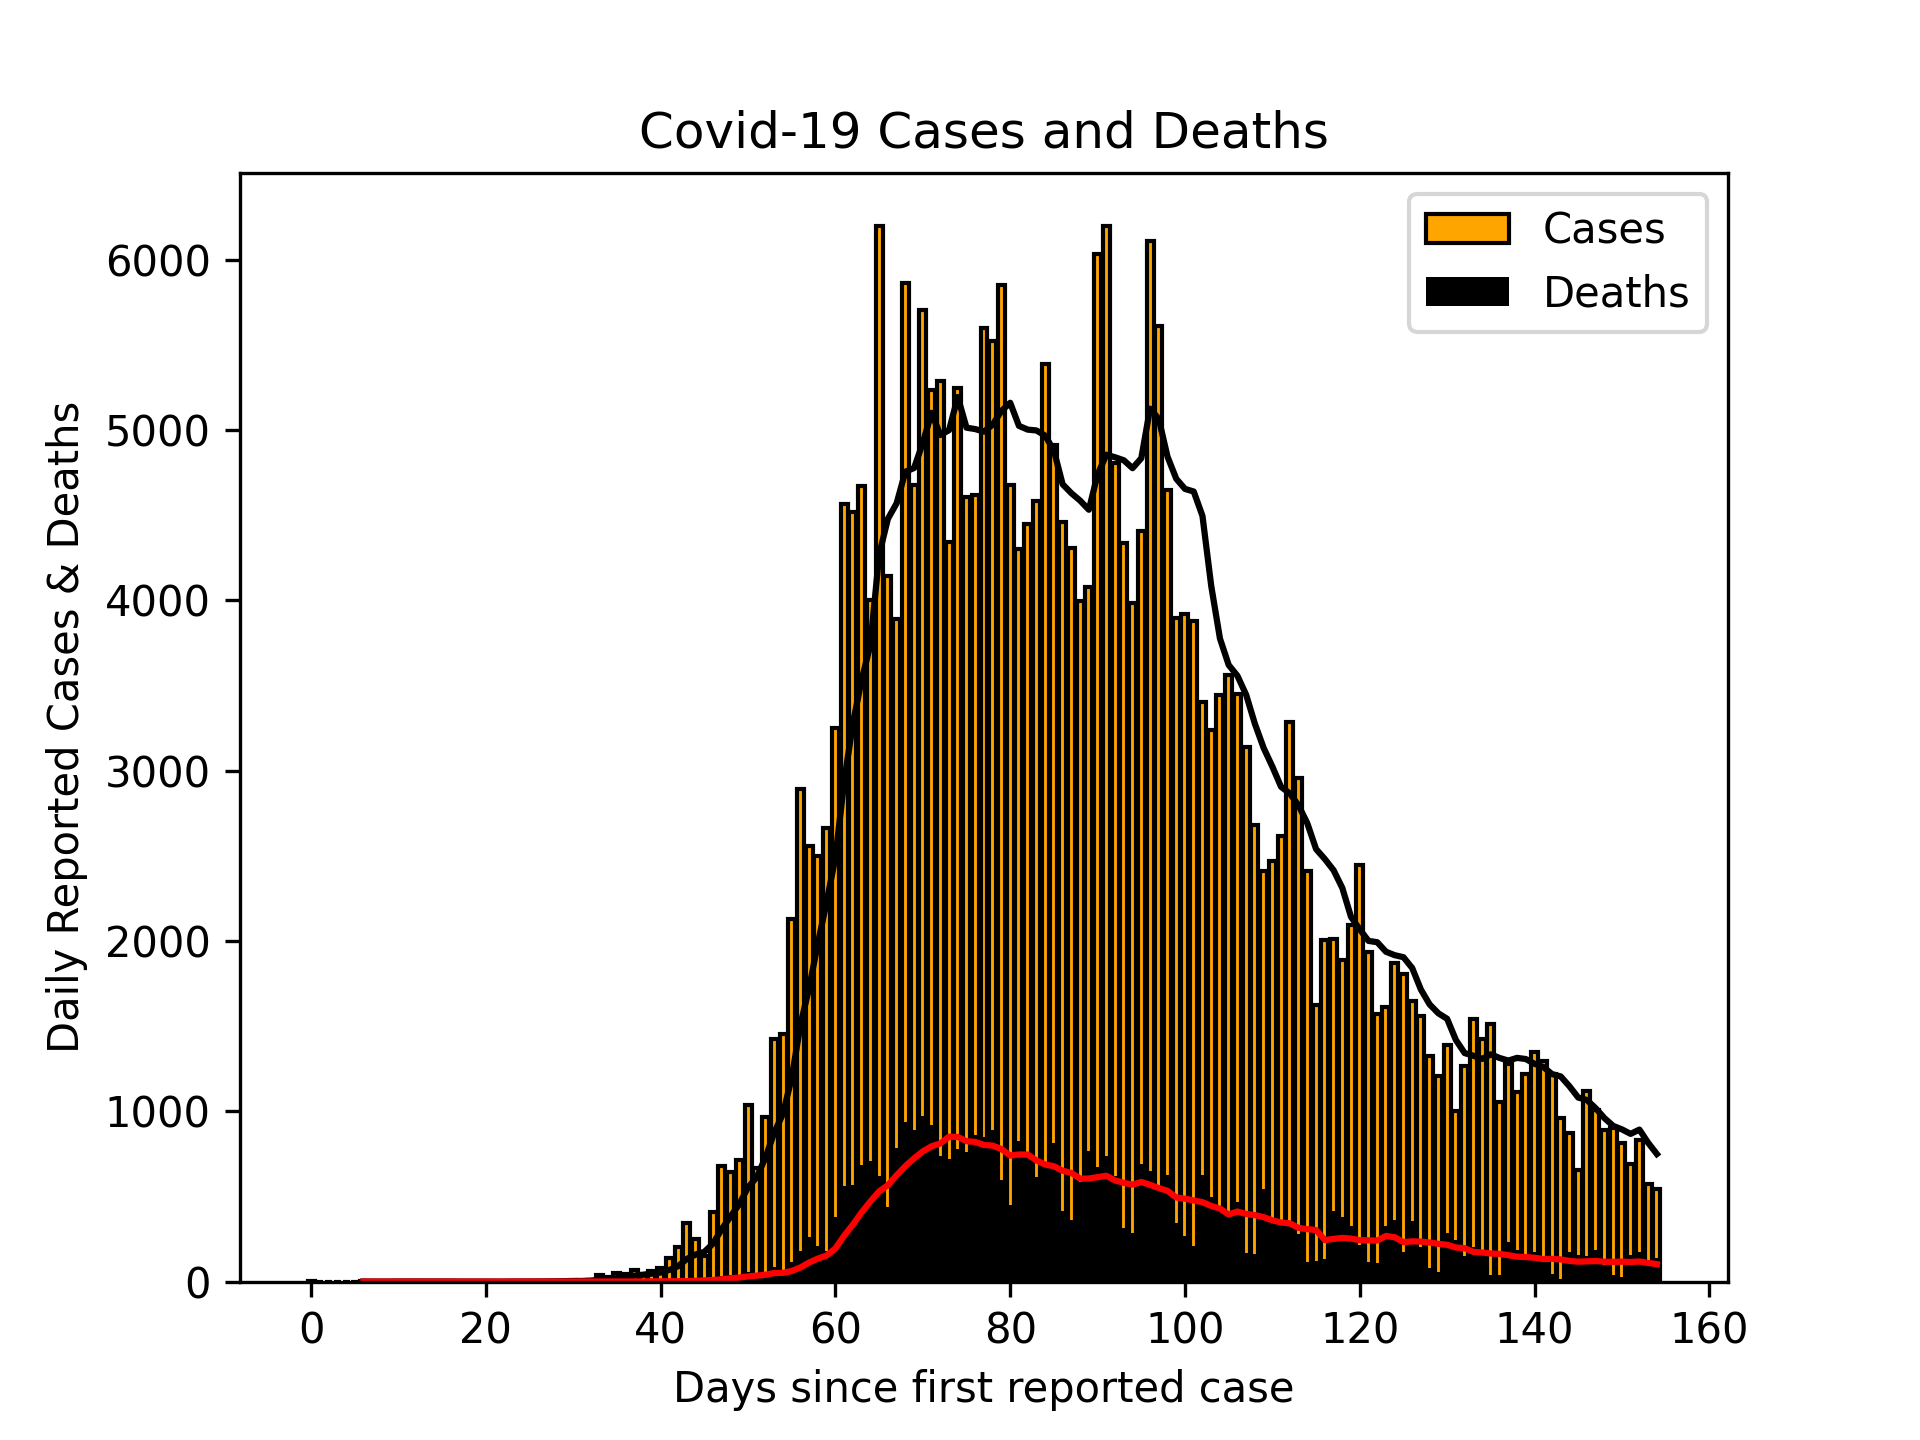
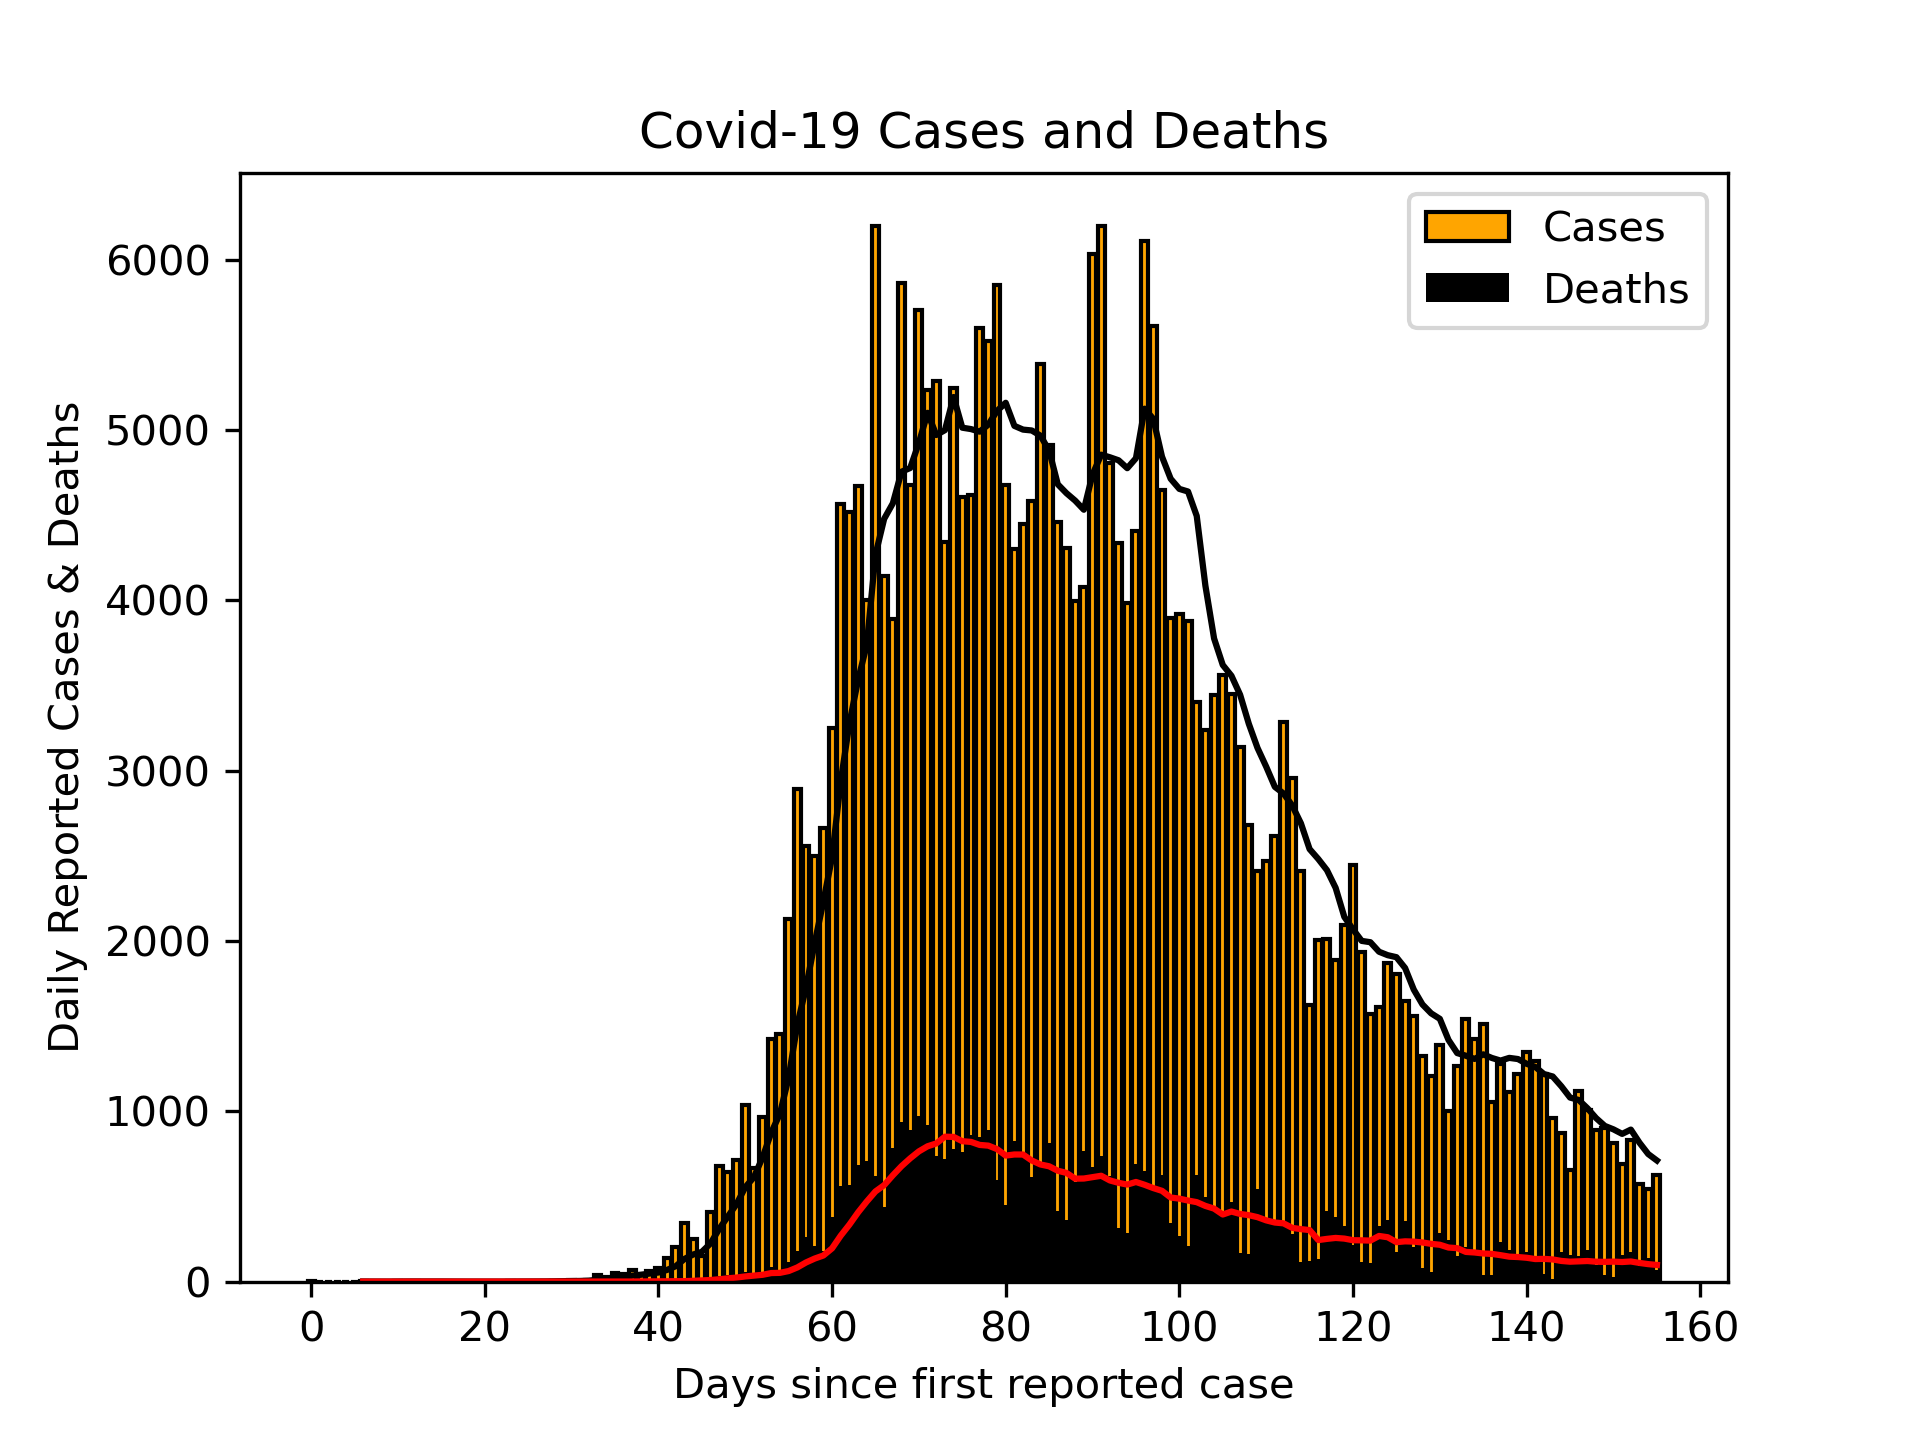
Updated UK cases 04/07/20

diff --git a/README.md b/README.md
@@ -1,5 +1,5 @@
 # Scottish Cases 04/07/20
 ![alt](scottish_cases.png)
 
-# UK Cases 03/07/20
+# UK Cases 04/07/20
 ![alt](uk_cases.png)
